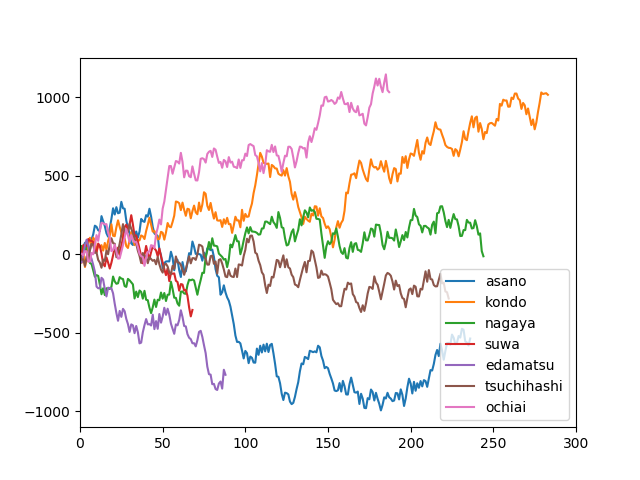
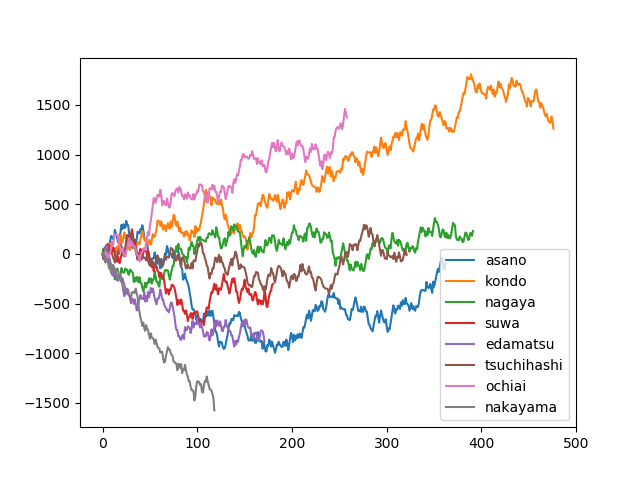
dropbox

diff --git a/graph.py b/graph.py
@@ -64,7 +64,10 @@ def graph_plot():
         elif player == "Toshi624":
             pointsG.append(point)
             pointSumG.append(pointSumG[-1]+point)
-        elif (player == "遊びたい") or (player == "とぅーり王"):
+        elif player == "遊びたい":
+            pointsH.append(point)
+            pointSumH.append(pointSumH[-1]+point)
+        elif player == "とぅーり王":
             pointsH.append(point)
             pointSumH.append(pointSumH[-1]+point)
 
@@ -94,7 +97,7 @@ def graph_plot():
     plt.savefig("test.png")
 
 
-    playerName = ["場代負け","バラク・オマタ","ソギモギ皇帝","鳥谷タカシ","さかかきばら","ニートしたい","Toshi624","遊びたい"]
+    playerName = ["場代負け","バラク・オマタ","ソギモギ皇帝","鳥谷タカシ","さかかきばら","ニートしたい","Toshi624","遊びたい","とぅーり王"]
     df = pd.DataFrame(index=playerName, columns=playerName)
     df = df.fillna(0.0).copy()
     df2 = df.copy()
@@ -132,3 +135,5 @@ def graph_plot():
 #         print(ind)
 #         print(players[ind],players[ind-1],players[ind-2])
 
+if __name__ == "__main__":
+    graph_plot()
